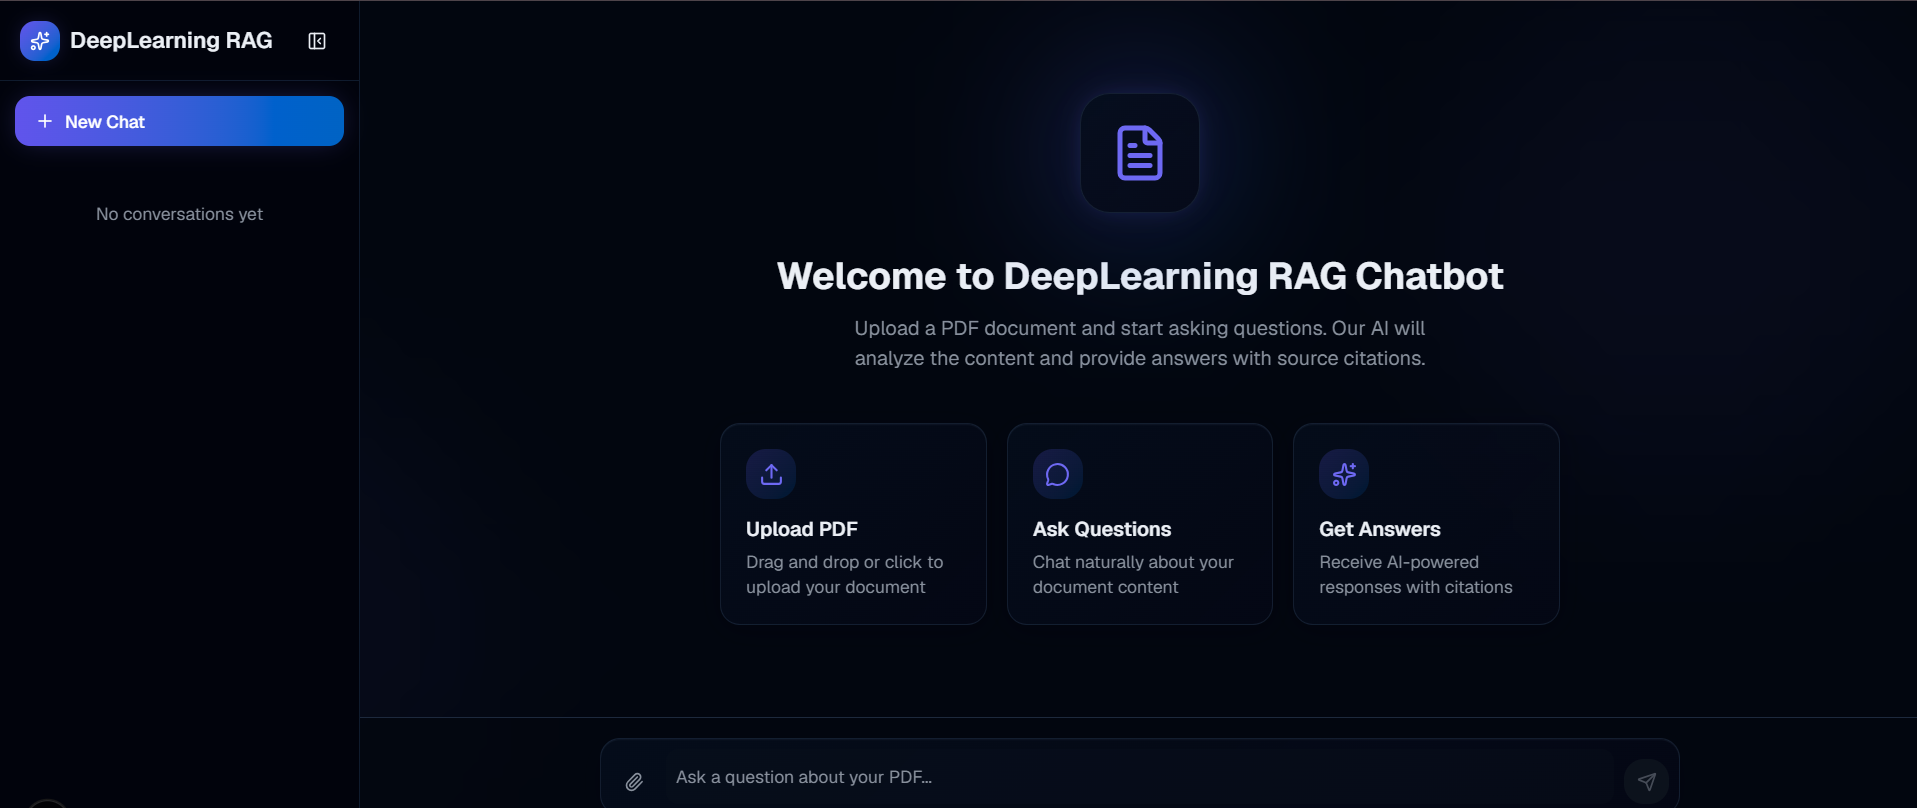
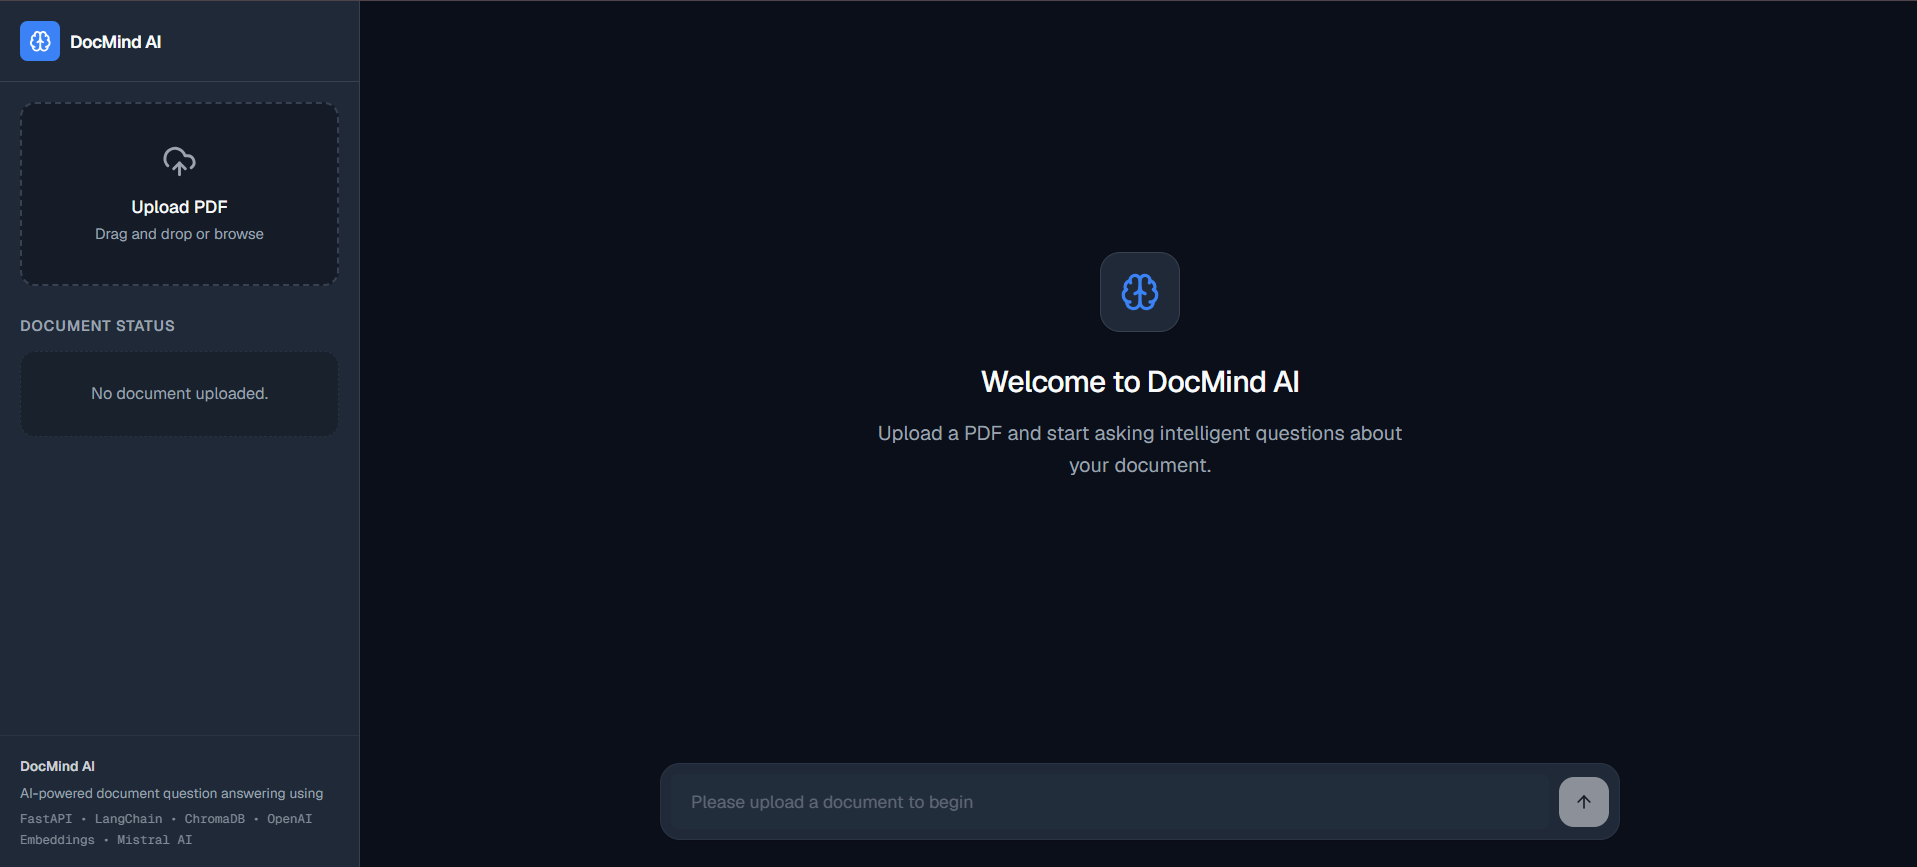
Added print statements to check different stages

diff --git a/backend/api.py b/backend/api.py
@@ -49,13 +49,22 @@ async def upload(file: UploadFile):
     with open(file_path, "wb") as buffer:
         shutil.copyfileobj(file.file, buffer)
 
+    print("Step 1: Upload request received")
     
     document = load_file(file_path)
+
+    print("Step 2: PDF loaded")
+    
     chunks = split_document(document)
+    
+    print(f"Step 3: Created {len(chunks)} chunks")
+
     vectorstore = create_vector_store(chunks)
+
+    print("Step 4: Vector store created")
         
     # 5. Return a valid JSON dictionary
-    return {"message": f"Document uploaded and processed successfully."}
+    return {"message": "Document uploaded and processed successfully."}
 
 @app.post("/chat")
 async def chat(query: Query):

diff --git a/backend/ingestion.py b/backend/ingestion.py
@@ -8,7 +8,10 @@ from langchain_text_splitters import RecursiveCharacterTextSplitter
 from langchain_openai import OpenAIEmbeddings
 # from langchain_community.vectorstores import Chroma
 from langchain_chroma import Chroma
+import time
 from dotenv import load_dotenv
+
+start = time.time()
 
 load_dotenv()
 
@@ -26,6 +29,7 @@ def load_file(file_path):
     # print(f"First Page Content: -\n {document[0]}")
     # print("*"*50)
 
+    print(time.time() - start)
     return document
 
 # Function for splitting into chunks
@@ -36,11 +40,15 @@ def split_document(document):
     # print(len(document[0].page_content))
     # print(chunks)
 
+    print(time.time() - start)
     return chunks
 
 # Function for creating a vectorstore
 embedding_model = OpenAIEmbeddings(model="text-embedding-3-small")
 def create_vector_store(chunks):
+
+    print("Creating embeddings...")
+
     vectorstore = Chroma(persist_directory="chroma_db", embedding_function=embedding_model)
 
     # Reseting ChromaDB
@@ -51,8 +59,11 @@ def create_vector_store(chunks):
 
     vectorstore.add_documents(chunks)
 
+    print("Embeddings stored successfully")
+
     print("Stored in ChromaDB")
     
+    print(time.time() - start)
     return vectorstore
 
 # Function to delete the ChromaDB and uploaded file